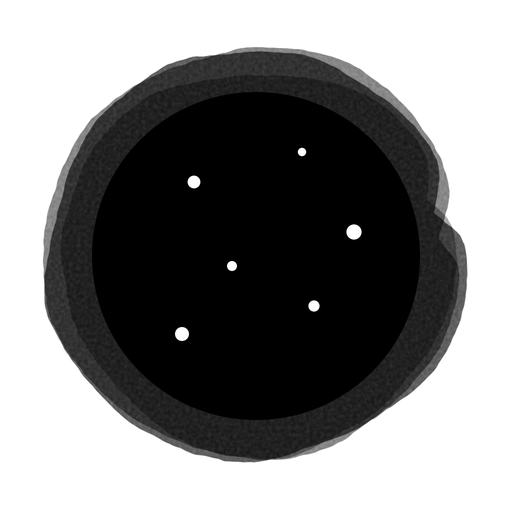
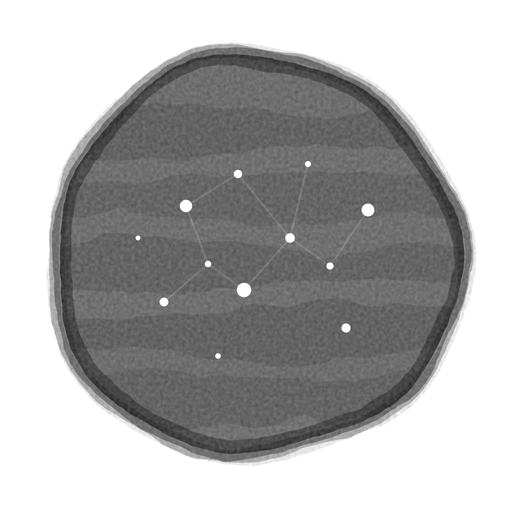
Refresh ink circle identity artwork

diff --git a/README.md b/README.md
@@ -83,7 +83,7 @@ The first article, **Making SVG feel like ink**, lives at `/writing/ink`. It exp
 
 ## Identity
 
-The ink circle combines a filled core, a few small natural gaps, and three overlapping marker passes generated with the article’s drawing geometry. Its SVG is black in light mode and white in dark mode. The master lives in `public/identity/ink-circle.svg`. Favicon SVG/ICO/PNG files, the Apple touch icon and `public/social-preview.webp` are linked in `index.html`.
+The ink circle uses broad, layered marker passes spread evenly across one organic silhouette, with no separate center shape or visible spiral line. Several loose outline passes finish the edge. Varied pinholes and very faint connecting lines form a small constellation in the ink. Its SVG is black in light mode and white in dark mode. The master lives in `public/identity/ink-circle.svg`. Favicon SVG/ICO/PNG files, the Apple touch icon and `public/social-preview.webp` are linked in `index.html`.
 
 Regenerate them with `node --experimental-strip-types scripts/render-identity.mjs` (verified with Node 24). The script uses Sharp and Canvas from the workspace runtime; `INK_RENDER_NODE_MODULES` can point to another installation. These packages are not added to the website bundle.
 
